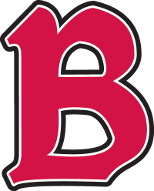
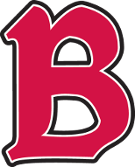
Adding

Changed region(s): [[0.4148, 0.1198, 0.4444, 0.1497], [0.0889, 0.2395, 0.1185, 0.2695], [0.0593, 0.988, 0.0889, 1.0]]

diff --git a/index.html b/index.html
@@ -93,7 +93,7 @@ li {
 
 <center><h1><FONT FACE="bookman"> Professor Matt Wiesner </h1></font></center>
 
-<img src="benn.png" style="display:block; margin-left:auto; margin-right:auto;" ALT=image/>
+<img src="Bee.png" style="display:block; margin-left:auto; margin-right:auto;" ALT=image/>
 
 <img src="Wiesner.jpg" style="display:block; margin-left:auto; margin-right:auto;" ALT=image/>
 <br><br>
